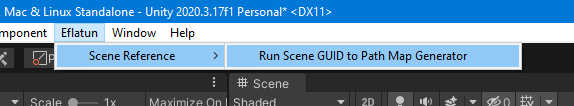
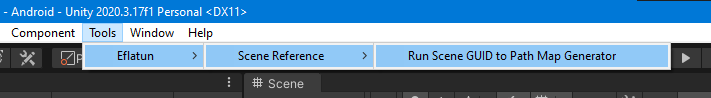
refactor: move manual generation menu item under Tools

diff --git a/Eflatun.SceneReference/Packages/com.eflatun.scenereference/Editor/SceneGuidToPathMapGenerator.cs b/Eflatun.SceneReference/Packages/com.eflatun.scenereference/Editor/SceneGuidToPathMapGenerator.cs
@@ -16,9 +16,9 @@ namespace Eflatun.SceneReference.Editor
         /// Runs the generator.
         /// </summary>
         /// <remarks>
-        /// The menu item "Eflatun/Scene Reference/Run Scene GUID to Path Map Generator" executes this method.
+        /// The menu item "Tools/Eflatun/Scene Reference/Run Scene GUID to Path Map Generator" executes this method.
         /// </remarks>
-        [MenuItem("Eflatun/Scene Reference/Run Scene GUID to Path Map Generator")]
+        [MenuItem("Tools/Eflatun/Scene Reference/Run Scene GUID to Path Map Generator", priority = -3130)]
         public static void Run()
         {
             Logger.Debug("Generating scene GUID to path map.");

diff --git a/Eflatun.SceneReference/Packages/com.eflatun.scenereference/README.md b/Eflatun.SceneReference/Packages/com.eflatun.scenereference/README.md
@@ -182,7 +182,7 @@ Running the generator has no side-effects.
 
 ### Via Menu Item
 
-You can trigger the generator via a menu item. Find it under `Eflatun/Scene Reference/Run Scene GUID to Path Map Generator`:
+You can trigger the generator via a menu item. Find it under `Tools/Eflatun/Scene Reference/Run Scene GUID to Path Map Generator`:
 
 ![.assets/generator_menu.png](.assets/generator_menu.png)
 
